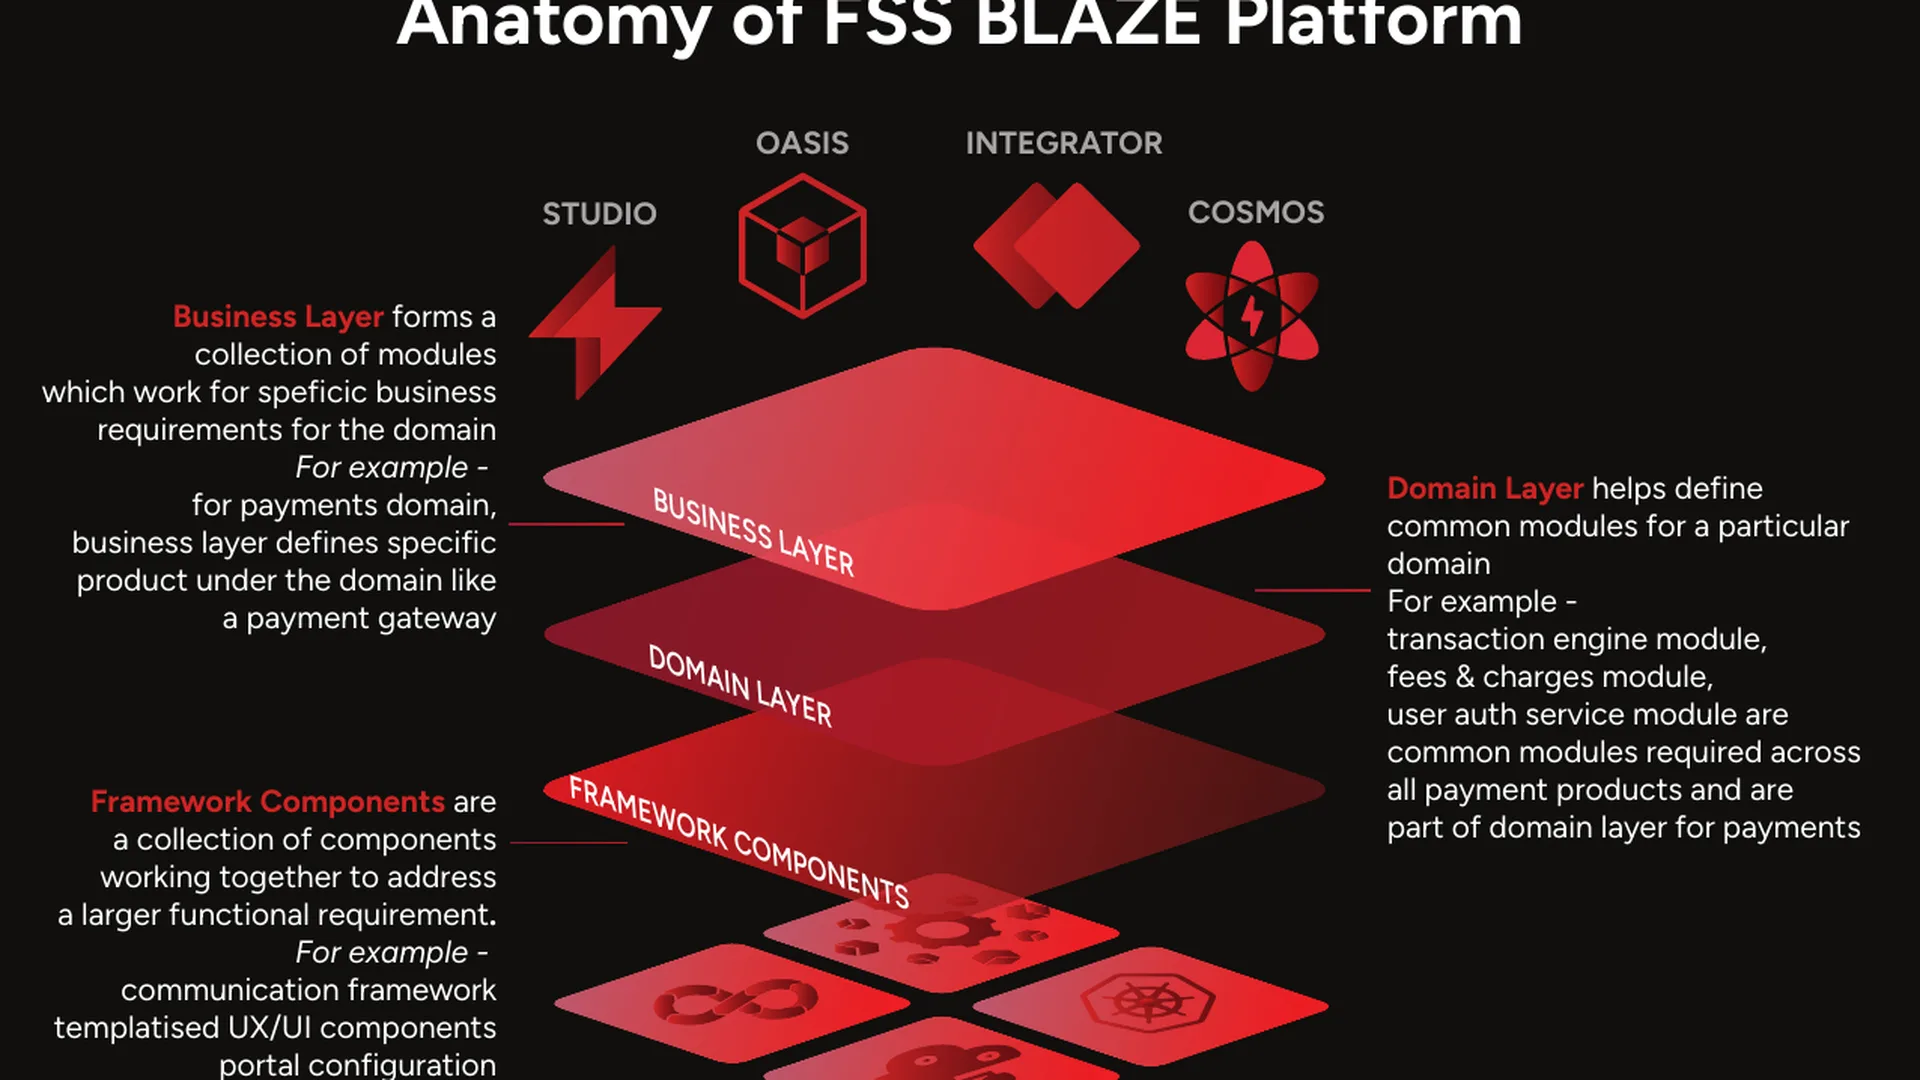
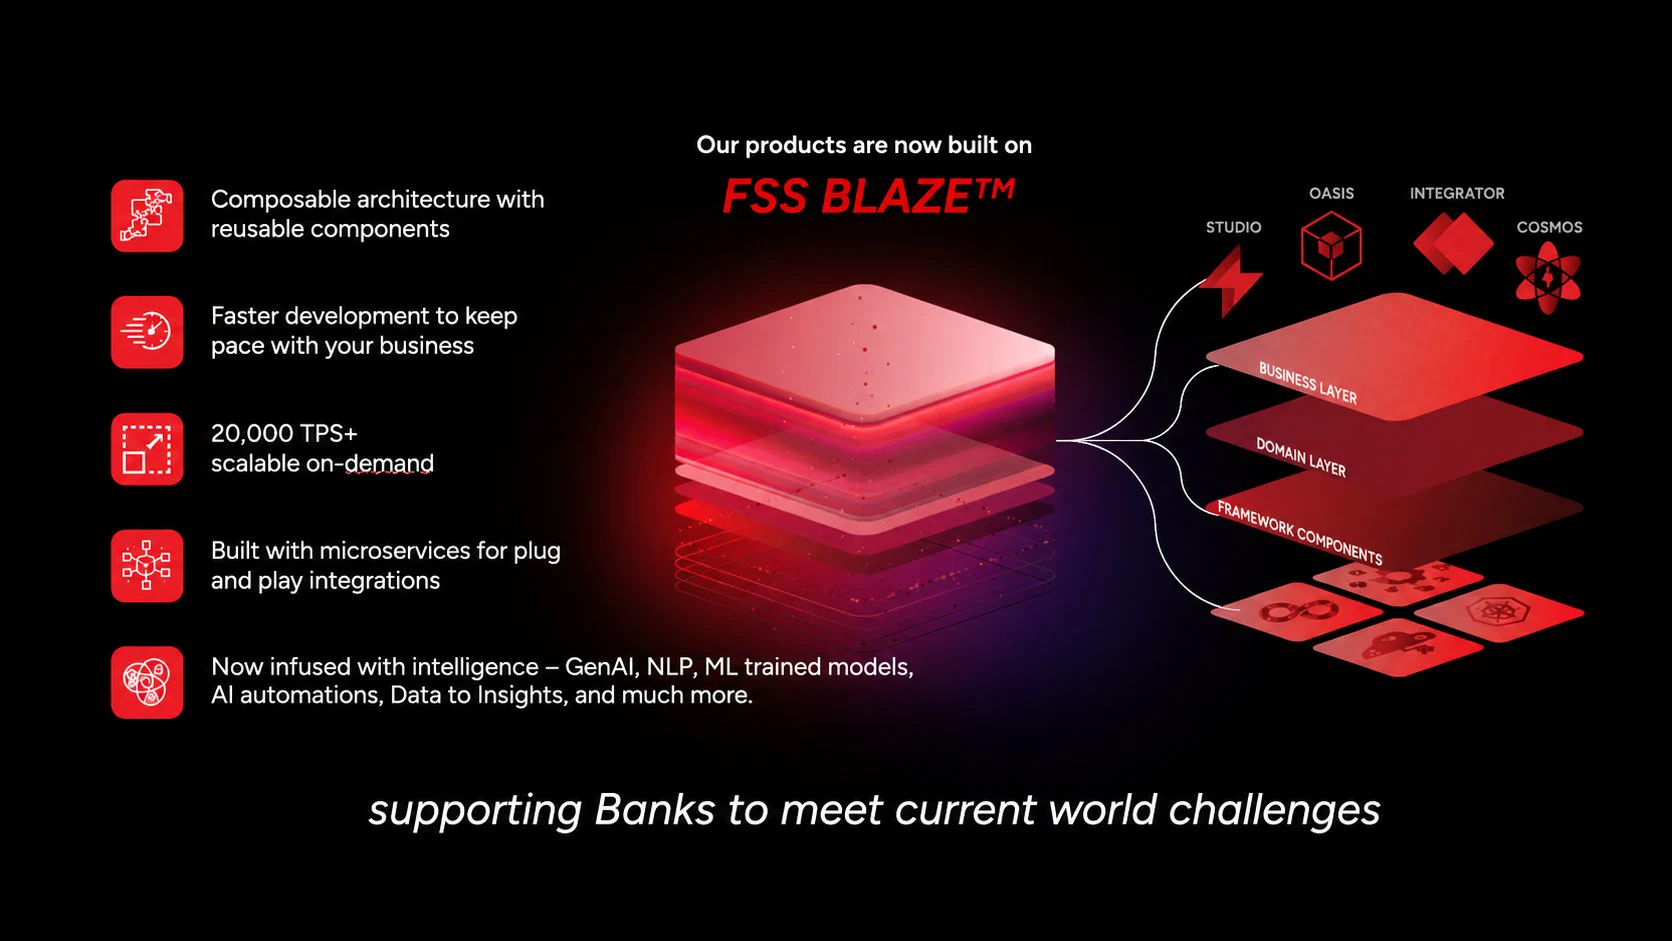
Replace BLAZE anatomy image with cleaner uncropped 16:9 version

diff --git a/src/pages/BlazePlatform.tsx b/src/pages/BlazePlatform.tsx
@@ -40,7 +40,7 @@ export default function BlazePlatform() {
           "Studio, the low-code application builder (prototype in a week, go live in three months). Integrator, connecting modern and legacy systems with intelligent data routing. Oasis, the unified data intelligence stack turning conversations into insights. And Cosmos, the AI and ML core powering generative and predictive intelligence across the platform. Each pillar could enter a different buying conversation and land with a different stakeholder, while every sale reinforced the platform. A \"Powered by BLAZE\" endorsement system then re-positioned the entire existing product portfolio under the new architecture, so legacy products became proof of the platform rather than evidence of the old reputation.",
         ]}
         image="/blaze-anatomy.webp"
-        imageAlt="The anatomy of the FSS BLAZE platform: the four pillars Studio, Oasis, Integrator, and Cosmos sitting above the layered Business, Domain, and Framework Components architecture."
+        imageAlt="The FSS BLAZE platform: products now built on BLAZE, with composable reusable architecture, faster development, 20,000+ TPS scalable on demand, microservices for plug-and-play integration, and infused intelligence (GenAI, NLP, ML, automations), shown above the four pillars Studio, Oasis, Integrator, and Cosmos over the layered Business, Domain, and Framework Components architecture."
         placeholder="The BLAZE branded house: four pillars, one platform."
       />
 